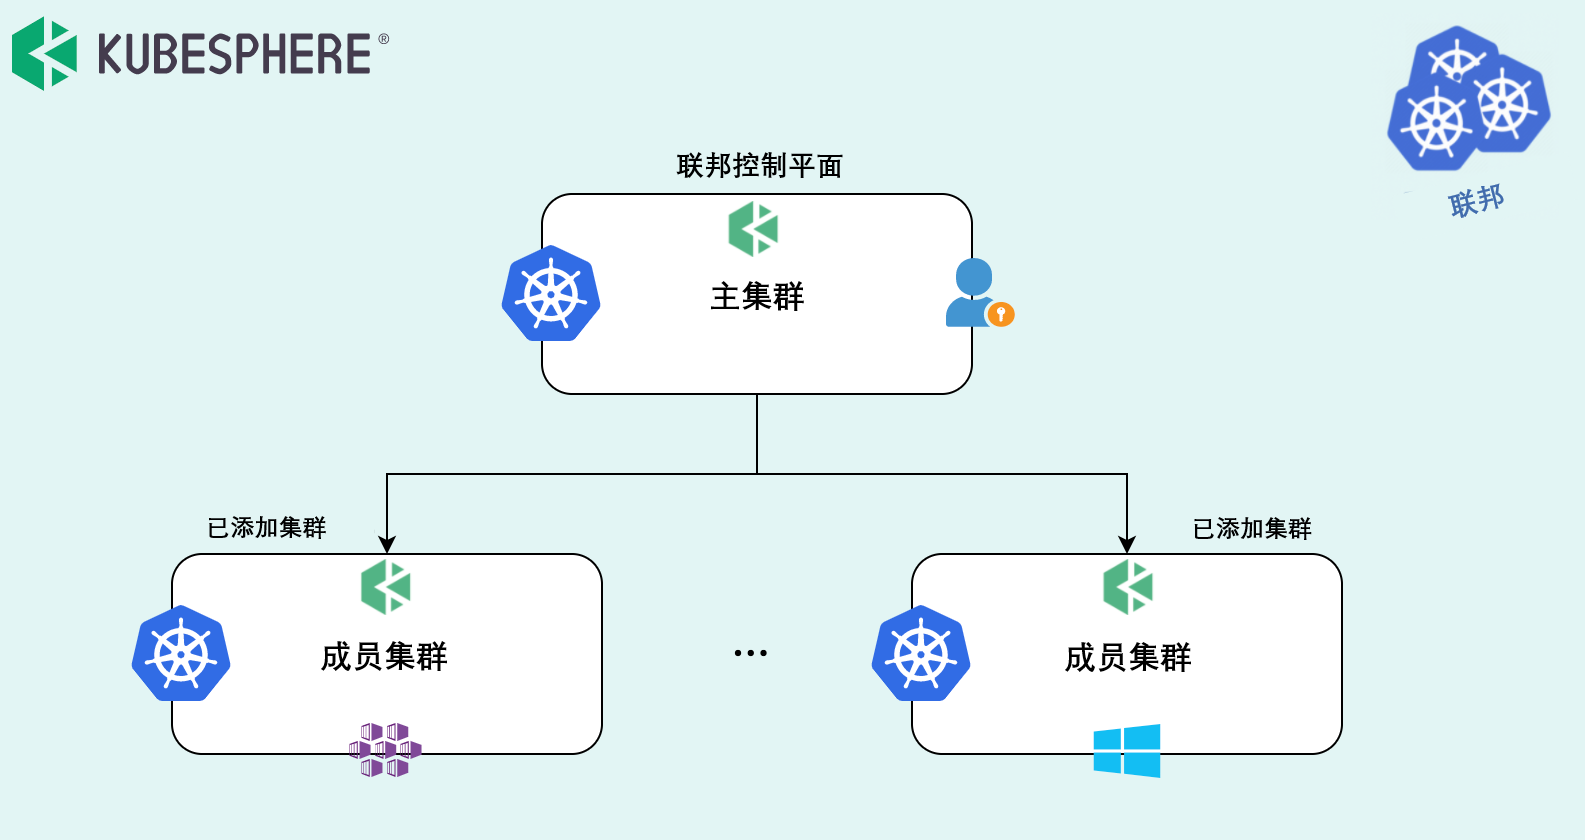
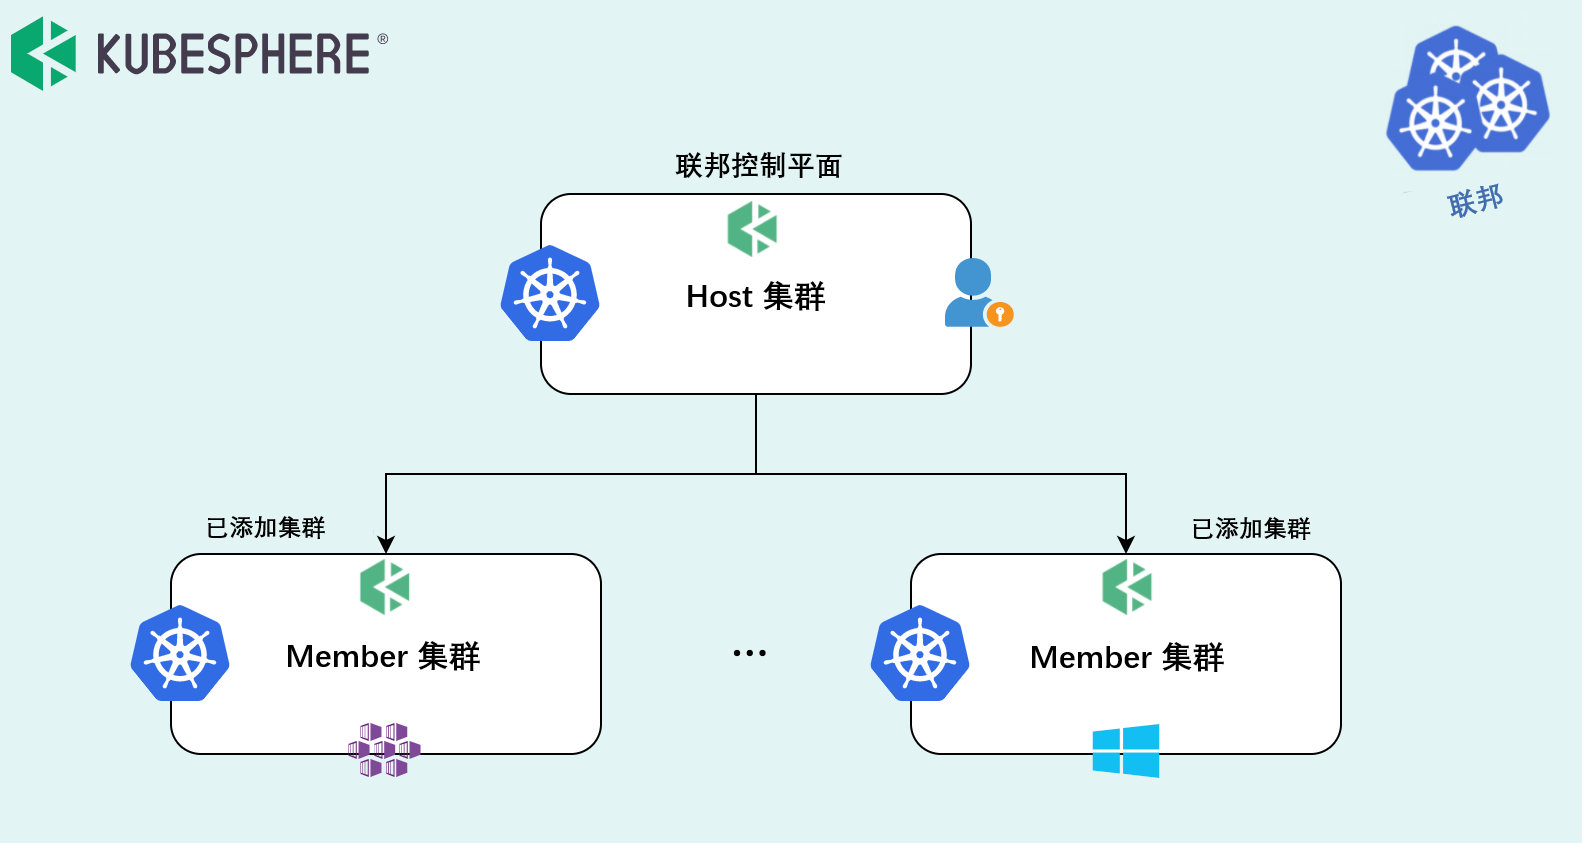
wording modified

diff --git a/content/zh/docs/multicluster-management/introduction/kubefed-in-kubesphere.md b/content/zh/docs/multicluster-management/introduction/kubefed-in-kubesphere.md
@@ -8,9 +8,9 @@ weight: 5120
 
 多集群功能与多个集群之间的网络连接有关。因此，了解集群的拓扑关系很重要。
 
-## 如何运作多集群架构
+## 多集群架构如何运作
 
-在使用 KubeSphere 的中央控制平面管理多个集群之前，您需要创建一个主集群（以下称为 **H** 集群）。H 集群实际上是一个启用了多集群功能的 KubeSphere 集群，您可以使用它提供的控制平面统一管理成员集群（以下称为 **M** 集群）。M 集群是没有中央控制平面的普通 KubeSphere 集群。也就是说，拥有必要权限的租户（通常是集群管理员）能够通过 H 集群访问控制平面，管理所有 M 集群，例如查看和编辑 M 集群上面的资源。反过来，如果您单独访问任意 M 集群的 Web 控制台，您将无法查看其它集群的任何资源。
+在使用 KubeSphere 的中央控制平面管理多个集群之前，您需要创建一个 Host 集群（以下称为 **H** 集群）。H 集群实际上是一个启用了多集群功能的 KubeSphere 集群，您可以使用它提供的控制平面统一管理 Member 集群（以下称为 **M** 集群）。M 集群是没有中央控制平面的普通 KubeSphere 集群。也就是说，拥有必要权限的租户（通常是集群管理员）能够通过 H 集群访问控制平面，管理所有 M 集群，例如查看和编辑 M 集群上面的资源。反过来，如果您单独访问任意 M 集群的 Web 控制台，您将无法查看其他集群的任何资源。
 
 ![中央控制平面](/images/docs/zh-cn/multicluster-management/introduction/kubesphere-federation/central-control-plane.png)
 
@@ -20,4 +20,4 @@ weight: 5120
 
 ## 厂商无锁定
 
-KubeSphere 拥有功能强大且包容的中央控制平面，因此，不论什么样的开发环境或者云厂商，您都可以统一管理任意 KubeSphere 集群。
+KubeSphere 拥有功能强大的中央控制平面，您可以统一管纳部署在任意环境或云厂商上的 KubeSphere 集群。

diff --git a/content/zh/docs/multicluster-management/introduction/overview.md b/content/zh/docs/multicluster-management/introduction/overview.md
@@ -10,6 +10,6 @@ weight: 5110
 
 多集群管理最常见的使用场景包括服务流量负载均衡、隔离开发和生产环境、解耦数据处理和数据存储、跨云备份和灾难恢复、灵活分配计算资源、跨区域服务的低延迟访问以及避免厂商锁定等。
 
-开发 KubeSphere 旨在解决多集群和多云管理（包括上述使用场景）的难题，为用户提供统一的控制平面，将应用程序及其副本分发到位于公有云和本地环境的多个集群。KubeSphere 还拥有跨多个集群的丰富可观察性，包括集中监控、日志系统、事件和审计日志。
+开发 KubeSphere 旨在解决多集群和多云管理（包括上述使用场景）的难题，为用户提供统一的控制平面，将应用程序及其副本分发到位于公有云和本地环境的多个集群。KubeSphere 还拥有跨多个集群的丰富可观察性，包括集中监控、日志系统、事件和审计日志等。
 
 ![多集群概览](/images/docs/zh-cn/multicluster-management/introduction/overview/multi-cluster-overview.png)
